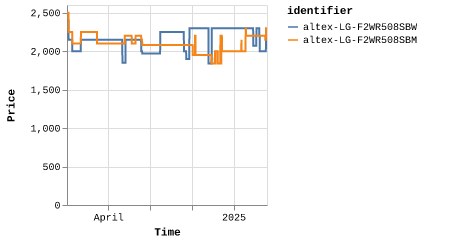
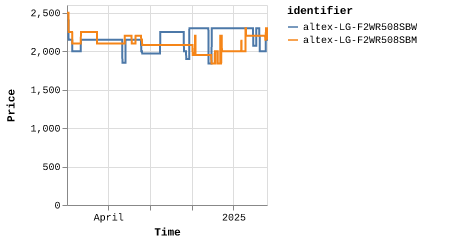
Latest scraping spalat: Sat Mar 15 12:57:23 UTC 2025

Changed region(s): [[0.4565, 0.0289, 0.5174, 0.8678], [0.3957, 0.1157, 0.4261, 0.2025], [0.5478, 0.1157, 0.5783, 0.1446]]

diff --git a/scrapes/spalat/altex-LG-F2WR508SBM.md b/scrapes/spalat/altex-LG-F2WR508SBM.md
@@ -1,3 +1,3 @@
-2299
+2149
 
 [Source](https://altex.ro/masina-de-spalat-rufe-frontala-slim-lg-f2wr508sbm-steam-8-kg-1200rpm-clasa-a-negru/cpd/MSFF2WR508SBM/)

diff --git a/scrapes/spalat/altex-LG-F2WR508SBW.md b/scrapes/spalat/altex-LG-F2WR508SBW.md
@@ -1,3 +1,3 @@
-2199
+2134
 
 [Source](https://altex.ro/masina-de-spalat-rufe-frontala-slim-lg-f2wr508sbw-steam-8-kg-1200rpm-clasa-a-alb/cpd/MSFF2WR508SBW/)
